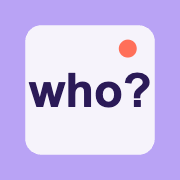
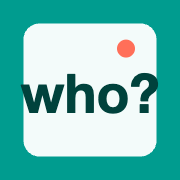
Green theme, exit ticket instructions and lock until route is finished

diff --git a/exit-ticket.html b/exit-ticket.html
@@ -5,7 +5,7 @@
 <meta name="viewport" content="width=device-width, initial-scale=1">
 <title>Exit Ticket · Relative Clauses</title>
 <link rel="manifest" href="manifest.webmanifest">
-<meta name="theme-color" content="#e9e1fb">
+<meta name="theme-color" content="#e0f4f2">
 <meta name="author" content="Ana Dias">
 <link rel="icon" href="icon-192.png">
 <link rel="apple-touch-icon" href="icon-180.png">
@@ -14,7 +14,7 @@
 <link rel="stylesheet" href="https://fonts.googleapis.com/css2?family=Inter+Tight:wght@600;700&family=Inter:wght@400;600;700&display=swap">
 <style>
 
-:root{color-scheme:light dark;--bg:light-dark(#ffffff,#16131f);--ink:light-dark(#1d1830,#efeaf8);--muted:light-dark(#544d66,#b5aecb);--line:light-dark(#ddd7e8,#352e47);--panel:light-dark(#f6f3fb,#1e1a2b);--hdr:light-dark(#e9e1fb,#2a1f45);--hdrink:light-dark(#2b1a57,#f1ecff);--hdrsub:light-dark(#4b3a7a,#cfc3ef);--tabbg:light-dark(#d4c6f6,#3b2d63);--pur:light-dark(#6a4bc4,#b9a3f5);--purink:light-dark(#ffffff,#1b1233);--sel:#ece4ff;--ok:light-dark(#1d6b3a,#a3e3ad);--okbg:light-dark(#e6f5c8,#173a22);--bad:light-dark(#a8321c,#ff9b88);--badbg:light-dark(#ffe7e1,#3b1e18);--coral:#ff6f59}
+:root{color-scheme:light dark;--bg:light-dark(#ffffff,#101a19);--ink:light-dark(#13201f,#e8f3f1);--muted:light-dark(#4a5c5a,#a9c2be);--line:light-dark(#d5e3e1,#2b3f3d);--panel:light-dark(#f3f8f7,#172422);--hdr:light-dark(#e0f4f2,#0f2e2b);--hdrink:light-dark(#00423c,#e3f7f4);--hdrsub:light-dark(#2f625c,#b5dcd6);--tabbg:light-dark(#bfe6e1,#1d4a45);--pur:light-dark(#00796f,#5fd3c6);--purink:light-dark(#ffffff,#062320);--sel:#d7f1ed;--ok:light-dark(#1d6b3a,#a3e3ad);--okbg:light-dark(#e6f5c8,#173a22);--bad:light-dark(#a8321c,#ff9b88);--badbg:light-dark(#ffe7e1,#3b1e18);--coral:#ff6f59}
 :root[data-theme=light]{color-scheme:light}
 :root[data-theme=dark]{color-scheme:dark}
 *{box-sizing:border-box;min-width:0}
@@ -28,7 +28,7 @@ h1,h2,h3{font-family:"Inter Tight",Inter,Arial,sans-serif;letter-spacing:-.02em;
 .by{font-weight:600}
 .idrow{display:flex;flex-wrap:wrap;gap:12px;align-items:center;margin-top:20px}
 .idrow label{font-weight:600}
-.idrow input{font:16px Inter,Arial,sans-serif;padding:10px 12px;border-radius:8px;border:2px solid #8c74d6;background:#fff;color:#1d1830;width:11em}
+.idrow input{font:16px Inter,Arial,sans-serif;padding:10px 12px;border-radius:8px;border:2px solid #009c8f;background:#fff;color:#13201f;width:11em}
 .tabs{display:flex;gap:6px;margin-top:24px;flex-wrap:wrap}
 .tab{font:600 17px Inter,Arial,sans-serif;padding:12px 20px;min-height:48px;border:0;border-radius:10px 10px 0 0;background:var(--tabbg);color:var(--hdrink);cursor:pointer}
 .tab[aria-selected=true]{background:var(--bg);color:var(--ink)}
@@ -59,7 +59,7 @@ ol.items{padding-left:1.6em;margin:0;display:grid;gap:14px}
 .opt{position:relative}
 .opt input{position:absolute;opacity:0;inset:0}
 .opt span{display:inline-flex;align-items:center;min-height:44px;padding:8px 16px;border:2px solid var(--line);border-radius:22px;cursor:pointer;background:var(--bg)}
-.opt input:checked+span{border-color:var(--pur);background:var(--sel);color:#1d1830;font-weight:600}
+.opt input:checked+span{border-color:var(--pur);background:var(--sel);color:#13201f;font-weight:600}
 .opt input:focus-visible+span{outline:3px solid var(--coral);outline-offset:2px}
 input.tx,select,textarea{font:16px Inter,Arial,sans-serif;color:var(--ink);background:var(--bg);border:2px solid var(--line);border-radius:8px;padding:10px 12px;width:100%}
 select{width:auto;min-height:44px}
@@ -97,7 +97,7 @@ textarea{min-height:120px;resize:vertical}
 @media(prefers-reduced-motion:no-preference){.fb{animation:pop .25s ease-out}@keyframes pop{from{opacity:0;transform:translateY(-4px)}to{opacity:1;transform:none}}}
 
 .back{display:inline-block;margin-top:16px;color:var(--hdrink);font-weight:600}
-.idrow select{font:16px Inter,Arial,sans-serif;padding:10px 12px;border-radius:8px;border:2px solid #8c74d6;background:#fff;color:#1d1830}
+.idrow select{font:16px Inter,Arial,sans-serif;padding:10px 12px;border-radius:8px;border:2px solid #009c8f;background:#fff;color:#13201f}
 </style>
 </head>
 <body>
@@ -105,7 +105,7 @@ textarea{min-height:120px;resize:vertical}
 <div class="in">
 <h1>Exit Ticket</h1>
 <p class="by">Created by Ana Dias</p>
-<p>Relative Clauses in an AI World · English · Year 10. Answer on your own, without AI, and click <b>Submit and check</b>.</p>
+<p>Relative Clauses in an AI World · English · Year 10. Do this after you finish your route. Answer on your own, without AI, and click <b>Submit and check</b>.</p>
 <div class="idrow"><label for="code">Your code</label><input id="code" autocomplete="off" placeholder="e.g. 10B-07">
 <label for="route">Route</label><select id="route"><option value="">–</option><option>A</option><option>B</option><option>C</option></select></div>
 <a class="back" href="./">← Back to the routes</a>
@@ -113,6 +113,7 @@ textarea{min-height:120px;resize:vertical}
 </div>
 </header>
 <main>
+<div class="result" id="lock" hidden><h2 style="font-size:24px">Finish your route first</h2><p>The Exit ticket opens when you have answered all the exercises of your route, written your final text and clicked <b>Submit and check</b>.</p><div class="btns"><a class="btn main" href="./" style="display:inline-flex;align-items:center;text-decoration:none">← Go to the routes</a></div></div>
 <form id="f" onsubmit="return false">
 <section class="sec" style="border-top:0">
 <h2>A. Choose the correct word</h2>
@@ -145,10 +146,12 @@ const ITEMS=[
 {q:"Lisbon, ___ hosts the Web Summit, is a big tech city.",o:["that","which"],a:"which",why:"non-defining clause (with commas) → which, never that"}];
 const esc=s=>String(s).replace(/[&<>"]/g,c=>({"&":"&amp;","<":"&lt;",">":"&gt;",'"':"&quot;"}[c]));
 document.getElementById("mcq").innerHTML=ITEMS.map((it,k)=>`<li><div class="q">${esc(it.q).replace("___",'<span class="blank"></span>')}</div><div class="opts" role="radiogroup">${it.o.map(o=>`<label class="opt"><input type="radio" name="m${k}" value="${esc(o)}"><span>${esc(o)}</span></label>`).join("")}</div><div class="fb" id="fb-${k}"></div></li>`).join("");
+let done=null;try{done=JSON.parse(localStorage.getItem("rc-done")||"null")}catch(e){}
+if(!done){document.getElementById("f").hidden=true;document.getElementById("lock").hidden=false}
 const KEY="rc-exit-ticket";let st={};try{st=JSON.parse(localStorage.getItem(KEY)||"{}")}catch(e){}
 let main={};try{main=JSON.parse(localStorage.getItem("rc-ai-world")||"{}")}catch(e){}
 const $=id=>document.getElementById(id);
-$("code").value=st.code||main.code||"";$("route").value=st.route||main.route||"";
+$("code").value=st.code||(done&&done.code)||main.code||"";$("route").value=st.route||(done&&done.route)||main.route||"";
 ["sent","r1","r2"].forEach(n=>{if(st[n])$(n).value=st[n]});
 ITEMS.forEach((it,k)=>{if(st["m"+k]){const r=document.querySelector(`input[name=m${k}][value="${CSS.escape(st["m"+k])}"]`);if(r)r.checked=true}});
 const save=()=>{const v={code:$("code").value,route:$("route").value,sent:$("sent").value,r1:$("r1").value,r2:$("r2").value};ITEMS.forEach((it,k)=>{const c=document.querySelector(`input[name=m${k}]:checked`);if(c)v["m"+k]=c.value});st=v;try{localStorage.setItem(KEY,JSON.stringify(v))}catch(e){}};
@@ -163,7 +166,7 @@ $("go").onclick=()=>{
  fs.className="fb info";fs.textContent=!s?"You haven’t written a sentence yet.":PRON.test(s)?"Your sentence has a relative pronoun. Your teacher will check it.":"I can’t find a relative pronoun (who, which, that, whose, where, when). Check your sentence.";
  const r=$("res");r.hidden=false;
  r.innerHTML=`<h2 style="font-size:24px">Exit ticket · ${esc($("code").value||"no code")}</h2><div class="big">${n} / 4</div><p class="note">correct answers in part A</p><div class="rows"><div class="row"><span>Part A</span><div class="bar"><i style="width:${n/4*100}%"></i></div><span class="num">${n} / 4</span></div></div><p>Compare with your quick test at the start of the lesson: did you get more right?</p><div class="btns"><button class="btn main" type="button" id="share">Copy results for your teacher</button></div><p class="note" id="sh"></p>`;
- const text=[`EXIT TICKET – Relative Clauses in an AI World`,`Code: ${$("code").value||"–"} · Route: ${$("route").value||"–"}`,`Part A: ${n}/4`,...lines,`Part B (sentence, ${w} words): ${s||"–"}`,`Part C – AI helped me understand: ${$("r1").value.trim()||"–"}`,`Part C – AI mistake / useless answer: ${$("r2").value.trim()||"–"}`].join("\n");
+ const text=[`EXIT TICKET – Relative Clauses in an AI World`,`Code: ${$("code").value||"–"} · Route: ${$("route").value||"–"}`,`Route result: ${done?done.tot+"/"+done.max:"–"}`,`Exit ticket part A: ${n}/4`,...lines,`Part B (sentence, ${w} words): ${s||"–"}`,`Part C – AI helped me understand: ${$("r1").value.trim()||"–"}`,`Part C – AI mistake / useless answer: ${$("r2").value.trim()||"–"}`].join("\n");
  $("share").onclick=async()=>{const sh=$("sh");try{await navigator.clipboard.writeText(text);sh.textContent="Copied. Paste it in Classroom / Moodle for your teacher."}catch(e){sh.innerHTML=`Copy this text and paste it for your teacher:<textarea class="copybox" readonly>${esc(text)}</textarea>`;sh.querySelector("textarea").select()}};
  r.scrollIntoView({behavior:"smooth"});
 };

diff --git a/index.html b/index.html
@@ -5,7 +5,7 @@
 <meta name="viewport" content="width=device-width, initial-scale=1">
 <title>Relative Clauses Routes</title>
 <link rel="manifest" href="manifest.webmanifest">
-<meta name="theme-color" content="#e9e1fb">
+<meta name="theme-color" content="#e0f4f2">
 <meta name="author" content="Ana Dias">
 <link rel="icon" href="icon-192.png">
 <link rel="apple-touch-icon" href="icon-180.png">
@@ -18,10 +18,10 @@
 /* VOICE everyday learning: a calm, clear workbook for 15-year-olds
    IDEA a printed exercise booklet with a lilac cover band and answer boxes the teacher marks
    PICTURE the working exercises themselves; after submitting, ticks and a score bar per section
-   COLOUR light purple cover #e9e1fb, violet #6a4bc4 for actions, green only for right, coral #ff6f59 for "review"
+   COLOUR light teal cover #e0f4f2, +PROFESSOR teal #009c8f / #00796f for actions, green only for right, coral #ff6f59 for "review"
    TYPE Inter Tight 700 for titles + Inter for text
    LAYOUT laptop: cover band with title, code and route tabs; one 860px column of sections. Phone: same, stacked */
-:root{color-scheme:light dark;--bg:light-dark(#ffffff,#16131f);--ink:light-dark(#1d1830,#efeaf8);--muted:light-dark(#544d66,#b5aecb);--line:light-dark(#ddd7e8,#352e47);--panel:light-dark(#f6f3fb,#1e1a2b);--hdr:light-dark(#e9e1fb,#2a1f45);--hdrink:light-dark(#2b1a57,#f1ecff);--hdrsub:light-dark(#4b3a7a,#cfc3ef);--tabbg:light-dark(#d4c6f6,#3b2d63);--pur:light-dark(#6a4bc4,#b9a3f5);--purink:light-dark(#ffffff,#1b1233);--sel:#ece4ff;--ok:light-dark(#1d6b3a,#a3e3ad);--okbg:light-dark(#e6f5c8,#173a22);--bad:light-dark(#a8321c,#ff9b88);--badbg:light-dark(#ffe7e1,#3b1e18);--coral:#ff6f59}
+:root{color-scheme:light dark;--bg:light-dark(#ffffff,#101a19);--ink:light-dark(#13201f,#e8f3f1);--muted:light-dark(#4a5c5a,#a9c2be);--line:light-dark(#d5e3e1,#2b3f3d);--panel:light-dark(#f3f8f7,#172422);--hdr:light-dark(#e0f4f2,#0f2e2b);--hdrink:light-dark(#00423c,#e3f7f4);--hdrsub:light-dark(#2f625c,#b5dcd6);--tabbg:light-dark(#bfe6e1,#1d4a45);--pur:light-dark(#00796f,#5fd3c6);--purink:light-dark(#ffffff,#062320);--sel:#d7f1ed;--ok:light-dark(#1d6b3a,#a3e3ad);--okbg:light-dark(#e6f5c8,#173a22);--bad:light-dark(#a8321c,#ff9b88);--badbg:light-dark(#ffe7e1,#3b1e18);--coral:#ff6f59}
 :root[data-theme=light]{color-scheme:light}
 :root[data-theme=dark]{color-scheme:dark}
 *{box-sizing:border-box;min-width:0}
@@ -35,7 +35,7 @@ h1,h2,h3{font-family:"Inter Tight",Inter,Arial,sans-serif;letter-spacing:-.02em;
 .by{font-weight:600}
 .idrow{display:flex;flex-wrap:wrap;gap:12px;align-items:center;margin-top:20px}
 .idrow label{font-weight:600}
-.idrow input{font:16px Inter,Arial,sans-serif;padding:10px 12px;border-radius:8px;border:2px solid #8c74d6;background:#fff;color:#1d1830;width:11em}
+.idrow input{font:16px Inter,Arial,sans-serif;padding:10px 12px;border-radius:8px;border:2px solid #009c8f;background:#fff;color:#13201f;width:11em}
 .tabs{display:flex;gap:6px;margin-top:24px;flex-wrap:wrap}
 .tab{font:600 17px Inter,Arial,sans-serif;padding:12px 20px;min-height:48px;border:0;border-radius:10px 10px 0 0;background:var(--tabbg);color:var(--hdrink);cursor:pointer}
 .exitlink{font:600 17px Inter,Arial,sans-serif;padding:12px 20px;min-height:48px;border-radius:10px 10px 0 0;background:var(--pur);color:var(--purink);text-decoration:none;display:inline-flex;align-items:center;margin-left:auto}
@@ -67,7 +67,7 @@ ol.items{padding-left:1.6em;margin:0;display:grid;gap:14px}
 .opt{position:relative}
 .opt input{position:absolute;opacity:0;inset:0}
 .opt span{display:inline-flex;align-items:center;min-height:44px;padding:8px 16px;border:2px solid var(--line);border-radius:22px;cursor:pointer;background:var(--bg)}
-.opt input:checked+span{border-color:var(--pur);background:var(--sel);color:#1d1830;font-weight:600}
+.opt input:checked+span{border-color:var(--pur);background:var(--sel);color:#13201f;font-weight:600}
 .opt input:focus-visible+span{outline:3px solid var(--coral);outline-offset:2px}
 input.tx,select,textarea{font:16px Inter,Arial,sans-serif;color:var(--ink);background:var(--bg);border:2px solid var(--line);border-radius:8px;padding:10px 12px;width:100%}
 select{width:auto;min-height:44px}
@@ -90,6 +90,9 @@ textarea{min-height:120px;resize:vertical}
 .count b{color:var(--ink)}
 .result{background:var(--panel);border:1px solid var(--line);border-radius:12px;padding:20px;margin-top:24px}
 .result[hidden]{display:none}
+.exitbox{margin-top:18px;padding:16px 18px;border-radius:12px;background:var(--hdr);color:var(--ink);border-left:6px solid var(--pur)}
+.exitbox.locked{background:var(--panel);border-left-color:var(--coral)}
+a.btn{display:inline-flex;align-items:center;text-decoration:none}
 .big{font:700 clamp(36px,6vw,56px)/1 "Inter Tight",Inter,sans-serif}
 .rows{display:grid;gap:8px;margin:16px 0}
 .row{display:grid;grid-template-columns:minmax(0,12em) minmax(0,1fr) auto;gap:10px;align-items:center;font-size:15px}
@@ -110,7 +113,7 @@ textarea{min-height:120px;resize:vertical}
 <div class="in">
 <h1>Relative Clauses in an AI World</h1>
 <p class="by">Created by Ana Dias</p>
-<p>English · Year 10 · Choose your route, answer the questions and click <b>Submit and check</b> at the end.</p>
+<p>English · Year 10 · Choose your route, answer all the questions and click <b>Submit and check</b> at the end. When you have finished your route, do the <b>Exit ticket</b> (it opens after you finish).</p>
 <div class="idrow"><label for="code">Your code</label><input id="code" autocomplete="off" placeholder="e.g. 10B-07"><span class="note" style="color:var(--hdrsub)">Don’t write your name.</span></div>
 <div class="tabs" role="tablist">
 <button class="tab" role="tab" id="tab-A" data-r="A" aria-selected="true">Route A</button>
@@ -290,6 +293,13 @@ function submit(r){
  const st=document.getElementById("st-"+r);st.hidden=false;st.textContent=`${d.name}: ${tot} / ${max} correct · Check the answers in red and submit again.`;
  st.scrollIntoView({behavior:matchMedia("(prefers-reduced-motion: reduce)").matches?"auto":"smooth"});
  res.dataset.sum=JSON.stringify({tot,max,rows,n});
+ const f=document.getElementById("f-"+r);let miss=0;
+ f.querySelectorAll(".fb").forEach(fb=>{const li=fb.closest("li");if(!li||fb.id.startsWith("fb-D-"))return;const els=[...li.querySelectorAll("input,select,textarea")];if(!els.length)return;const ok=els.some(e=>(e.type==="radio"||e.type==="checkbox")?e.checked:String(e.value).trim()!=="");if(!ok)miss++});
+ const need=+ta.dataset.min||0,done=miss===0&&n>=need,ex=document.createElement("div");ex.className="exitbox"+(done?"":" locked");
+ if(done){try{localStorage.setItem("rc-done",JSON.stringify({route:r,code:document.getElementById("code").value,tot,max,at:Date.now()}))}catch(e){}
+  ex.innerHTML=`<b>Well done! You finished ${esc(d.name)}.</b><br>Now do the Exit ticket on your own, without AI.<div class="btns"><a class="btn main" href="exit-ticket.html">Go to the Exit ticket →</a></div>`}
+ else ex.innerHTML=`<b>The Exit ticket is still locked.</b><br>To open it, ${miss?`answer all the exercises (<b>${miss}</b> still empty)`:""}${miss&&n<need?" and ":""}${n<need?`write at least <b>${need} words</b> in your final text (now: ${n})`:""}, then click <b>Submit and check</b> again.`;
+ res.appendChild(ex);
 }
 function summary(r){
  const d=R[r],f=document.getElementById("f-"+r),s=JSON.parse(document.getElementById("res-"+r).dataset.sum||"{}");

diff --git a/sw.js b/sw.js
@@ -1,4 +1,4 @@
-const CACHE = "relative-clauses-v4";
+const CACHE = "relative-clauses-v5";
 const FILES = ["./", "./index.html", "./exit-ticket.html", "./manifest.webmanifest", "./icon-180.png", "./icon-192.png", "./icon-512.png"];
 self.addEventListener("install", e => { e.waitUntil(caches.open(CACHE).then(c => c.addAll(FILES))); self.skipWaiting(); });
 self.addEventListener("activate", e => { e.waitUntil(caches.keys().then(k => Promise.all(k.filter(n => n !== CACHE).map(n => caches.delete(n))))); self.clients.claim(); });
